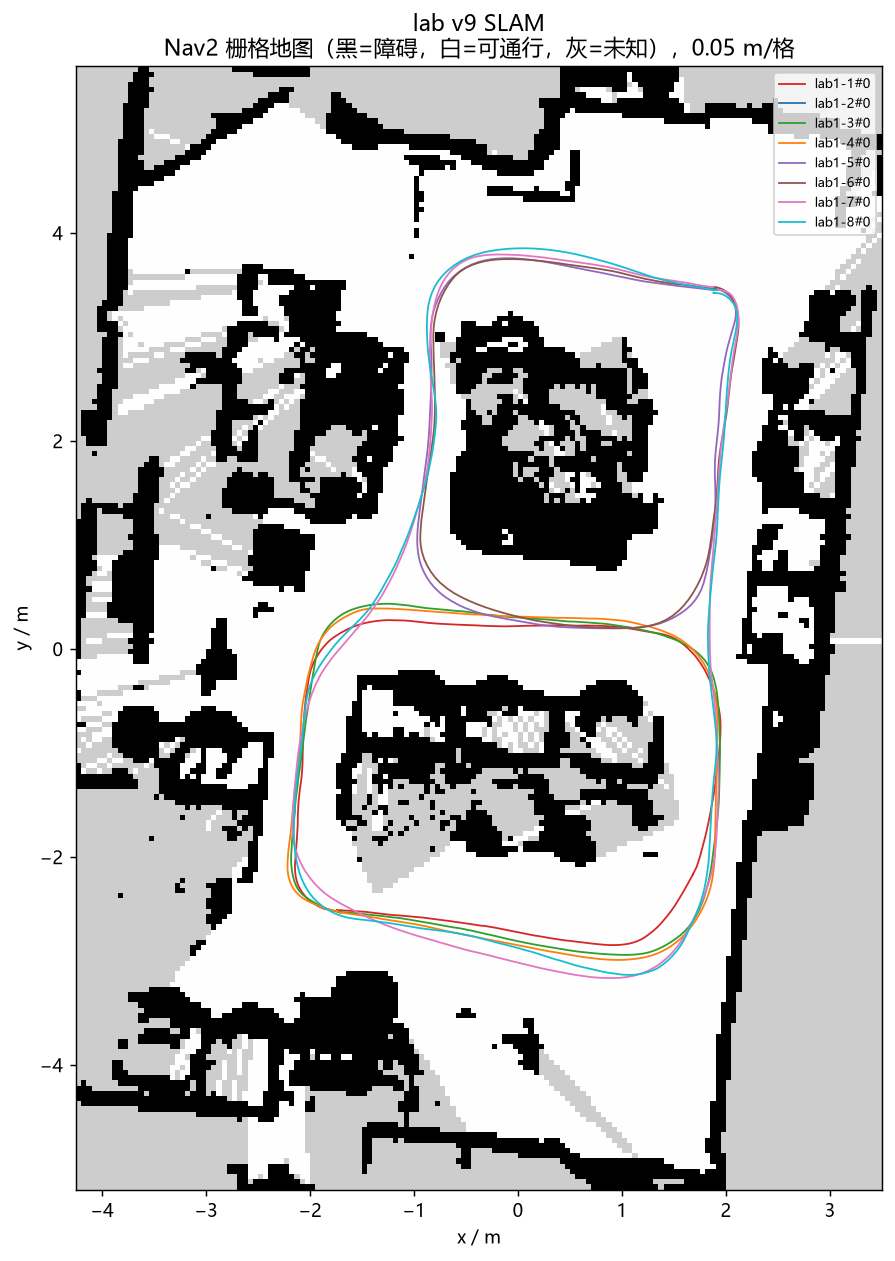
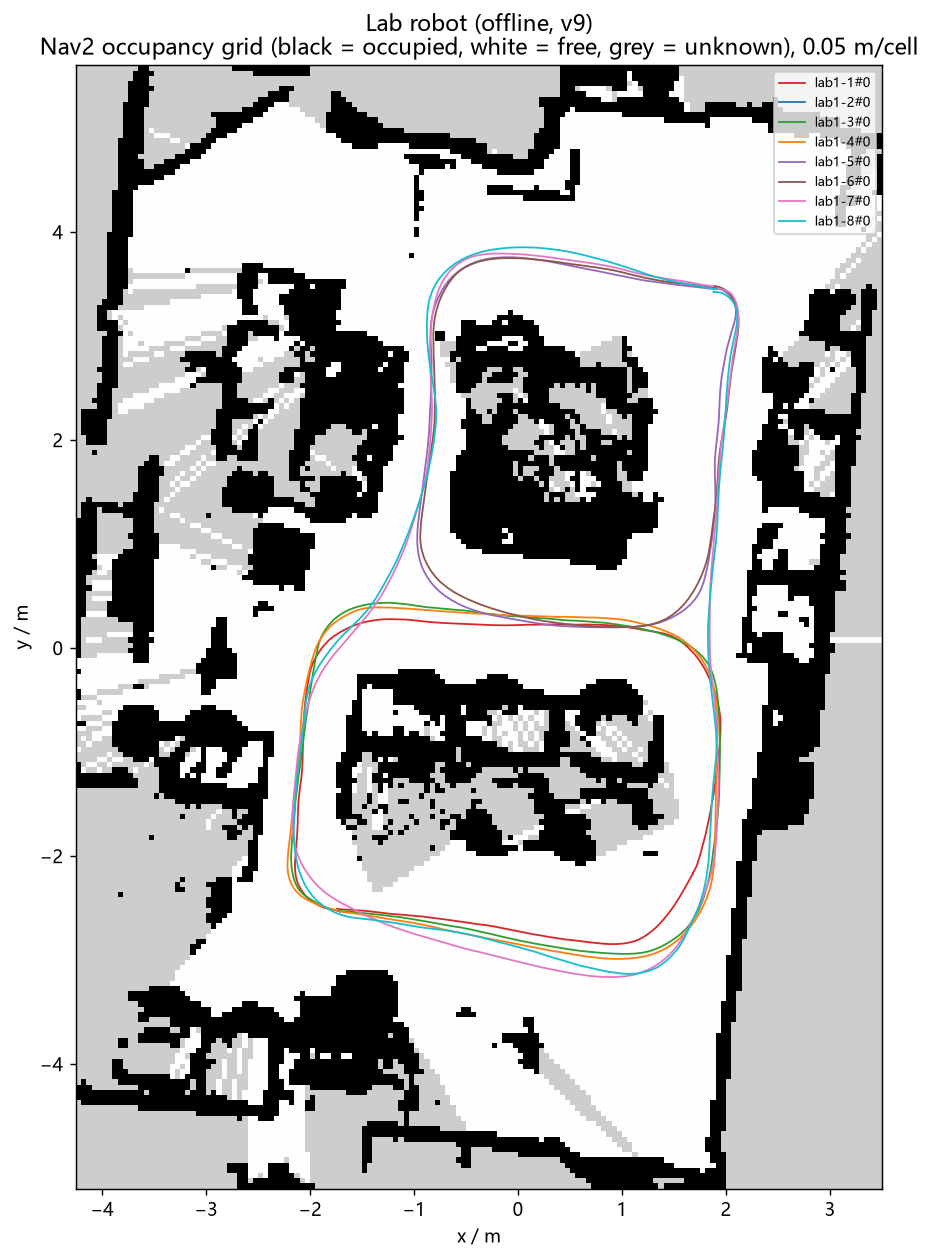
Use English labels in README figures; add --lang/--panels/--no-quality options to map plotting

Changed region(s): [[0.0302, 0.0, 0.9955, 0.9595], [0.4827, 0.9595, 0.5732, 0.9905]]

diff --git a/src/orbbec_bev_odometry/orbbec_bev_odometry/build_global_map.py b/src/orbbec_bev_odometry/orbbec_bev_odometry/build_global_map.py
@@ -74,7 +74,12 @@ def main(argv=None):
     parser.add_argument('--labels', default='真值参考,前端,后端')
     parser.add_argument('--combine', action='store_true', help='all sessions in one map (shared world frame)')
     parser.add_argument('--subtitle', default='（起点对齐，无回到起点）')
+    parser.add_argument('--lang', choices=('zh', 'en'), default='zh', help='language of figure text')
+    parser.add_argument('--panels', default='target,raw,optimized', help='which panels to draw, e.g. raw,optimized')
+    parser.add_argument('--no-quality', action='store_true', help='do not print map-quality numbers (e.g. no ground truth)')
     args = parser.parse_args(argv)
+    if args.lang == 'en' and args.labels == '真值参考,前端,后端':
+        args.labels = 'Reference (ground truth),Front end only,After loop closure'
     import matplotlib
     matplotlib.use('Agg')
     import matplotlib.pyplot as plt
@@ -103,9 +108,13 @@ def main(argv=None):
         grids = {p: occupancy(c, lo, shape, args.resolution, args.min_hits) for p, c in clouds.items()}
         quality = {p: map_quality(grids[p][1], grids['target'][1], lo, args.resolution) for p in ('raw', 'optimized')}
         report[f"{seg[0]['sequence']}/{segment}"] = quality
-        fig, axes = plt.subplots(1, 3, figsize=(18, 6.5), constrained_layout=True)
+        names = ('target', 'raw', 'optimized')
+        shown = [p for p in args.panels.split(',') if p in names]
+        fig, axes = plt.subplots(1, len(shown), figsize=(6 * len(shown), 6.5), constrained_layout=True, squeeze=False)
+        axes = axes[0]
         extent = (lo[1], hi[1], lo[0], hi[0])
-        for ax, prefix, label in zip(axes, ('target', 'raw', 'optimized'), labels):
+        for ax, prefix in zip(axes, shown):
+            label = labels[names.index(prefix)]
             grid = np.log1p(grids[prefix][0])
             ax.imshow(grid, origin='lower', extent=extent, cmap='Greys', vmax=np.percentile(grid[grid > 0], 98))
             # world x = forward is drawn vertically; y = left horizontally, flipped so left is left
@@ -116,19 +125,27 @@ def main(argv=None):
                 if part:
                     ax.plot([float(r[f'{prefix}_y_m']) for r in part], [float(r[f'{prefix}_x_m']) for r in part],
                             color=colors[n % len(colors)], lw=1.2, label=name if args.combine else None)
-            if args.combine and prefix == 'target':
+            if args.combine and prefix == shown[0]:
                 ax.legend(fontsize=7, loc='best')
             if not args.combine:
                 ax.plot(0, 0, 'o', color='#2ca02c')
             ax.invert_xaxis()
             ax.set_aspect('equal')
-            q = quality.get(prefix, {})
-            sub = '' if not q else f"\n与参考地图倒角距离 {q['chamfer_m']:.2f} m，10 cm 内 {100 * q['within_10cm']:.0f}%"
+            q = {} if args.no_quality else quality.get(prefix, {})
+            if args.lang == 'en':
+                sub = '' if not q else f"\nChamfer distance to reference {q['chamfer_m']:.2f} m, {100 * q['within_10cm']:.0f}% within 10 cm"
+                ax.set_xlabel('left / m')
+                ax.set_ylabel('forward / m')
+            else:
+                sub = '' if not q else f"\n与参考地图倒角距离 {q['chamfer_m']:.2f} m，10 cm 内 {100 * q['within_10cm']:.0f}%"
+                ax.set_xlabel('左向 / m')
+                ax.set_ylabel('前向 / m')
             ax.set_title(label + sub)
-            ax.set_xlabel('左向 / m')
-            ax.set_ylabel('前向 / m')
-        where = '全部段' if args.combine else f"{seg[0]['sequence']} 片段 {segment}"
-        fig.suptitle(f"{args.title} {where}：BEV 占据拼接全局地图{args.subtitle}", y=1.04)
+        if args.lang == 'en':
+            fig.suptitle(args.title, y=1.04)
+        else:
+            where = '全部段' if args.combine else f"{seg[0]['sequence']} 片段 {segment}"
+            fig.suptitle(f"{args.title} {where}：BEV 占据拼接全局地图{args.subtitle}", y=1.04)
         fig.savefig(output / (f"map_all.png" if args.combine else f"map_{seg[0]['sequence']}_{segment}.png"),
                     dpi=140, bbox_inches='tight')
         plt.close(fig)

diff --git a/src/orbbec_bev_odometry/orbbec_bev_odometry/export_nav2_map.py b/src/orbbec_bev_odometry/orbbec_bev_odometry/export_nav2_map.py
@@ -72,6 +72,7 @@ def main(argv=None):
     parser.add_argument('--min-occupied-share', type=float, default=0.3)
     parser.add_argument('--min-free-hits', type=int, default=2)
     parser.add_argument('--title', default='')
+    parser.add_argument('--lang', choices=('zh', 'en'), default='zh', help='language of the preview text')
     args = parser.parse_args(argv)
     output = Path(args.output_dir)
     output.mkdir(parents=True, exist_ok=False)
@@ -134,7 +135,10 @@ def main(argv=None):
     ax.legend(fontsize=7, loc='upper right')
     ax.set_xlabel('x / m')
     ax.set_ylabel('y / m')
-    ax.set_title(f"{args.title}\nNav2 栅格地图（黑=障碍，白=可通行，灰=未知），{args.resolution} m/格")
+    if args.lang == 'en':
+        ax.set_title(f"{args.title}\nNav2 occupancy grid (black = occupied, white = free, grey = unknown), {args.resolution} m/cell")
+    else:
+        ax.set_title(f"{args.title}\nNav2 栅格地图（黑=障碍，白=可通行，灰=未知），{args.resolution} m/格")
     fig.savefig(output / 'preview.png', dpi=130, bbox_inches='tight')
     print(json.dumps(stats, indent=1, ensure_ascii=False))
 
